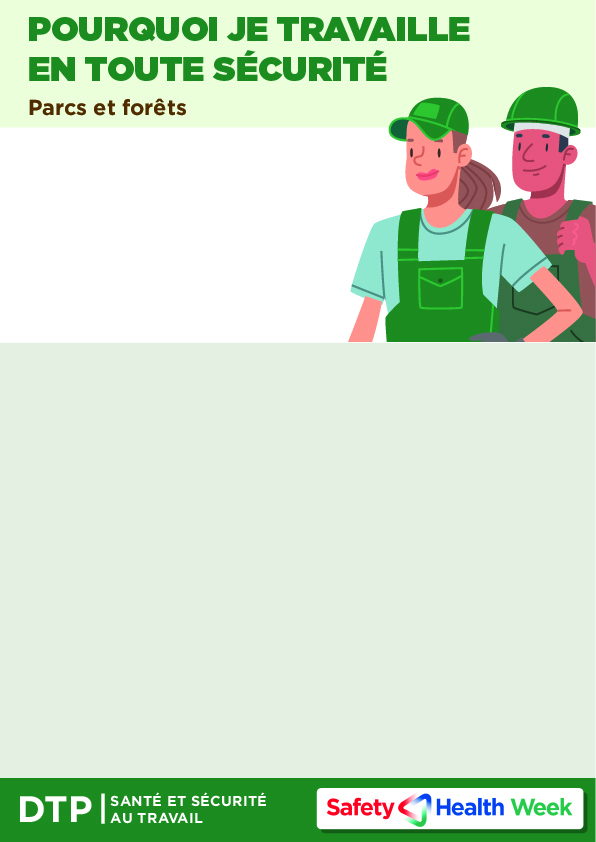
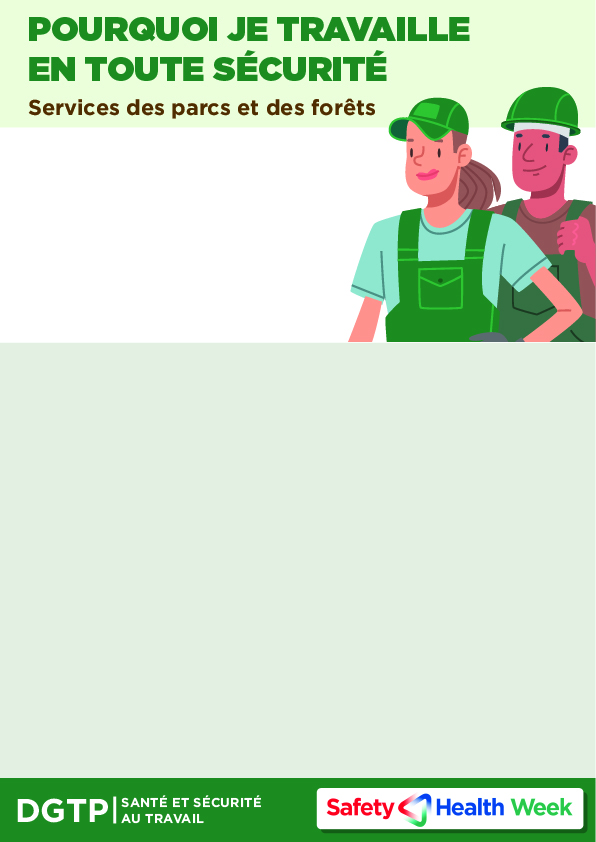
Add files via upload

Changed region(s): [[0.0302, 0.9264, 0.453, 0.9881], [0.0302, 0.0926, 0.6342, 0.1544]]

diff --git a/index-fr.html b/index-fr.html
@@ -407,7 +407,7 @@
 }
 
 .site-title {
-  font-size: 36px;
+  font-size: 34px;
   font-weight: 800;
   color: #0049ae;
   margin-bottom: 0px;
@@ -616,7 +616,7 @@
   <div id="panel"></div>
 
   <div class="form-section">
-    <div class="site-title">DTP Créateur d'affiches</div>
+    <div class="site-title">DGTP Créateur d'affiches</div>
     <div class="step">Étape 1 : Sélectionnez votre secteur d'activité </div>
     <div class="template-buttons">
       <button class="outline selected" onclick="selectTemplate('template6.jpg', this)">Général</button>
@@ -668,7 +668,7 @@
 
     <h3>N'oubliez pas de générer l'affiche avant de l'enregistrer ! </h3>
 
-    <p>Conçu pour vous par le service Formation et Développement DTP </p>
+    <p>Conçu pour vous par Apprentissage et Perfectionnement de la DGTP </p>
   </div>
 </div>
 
